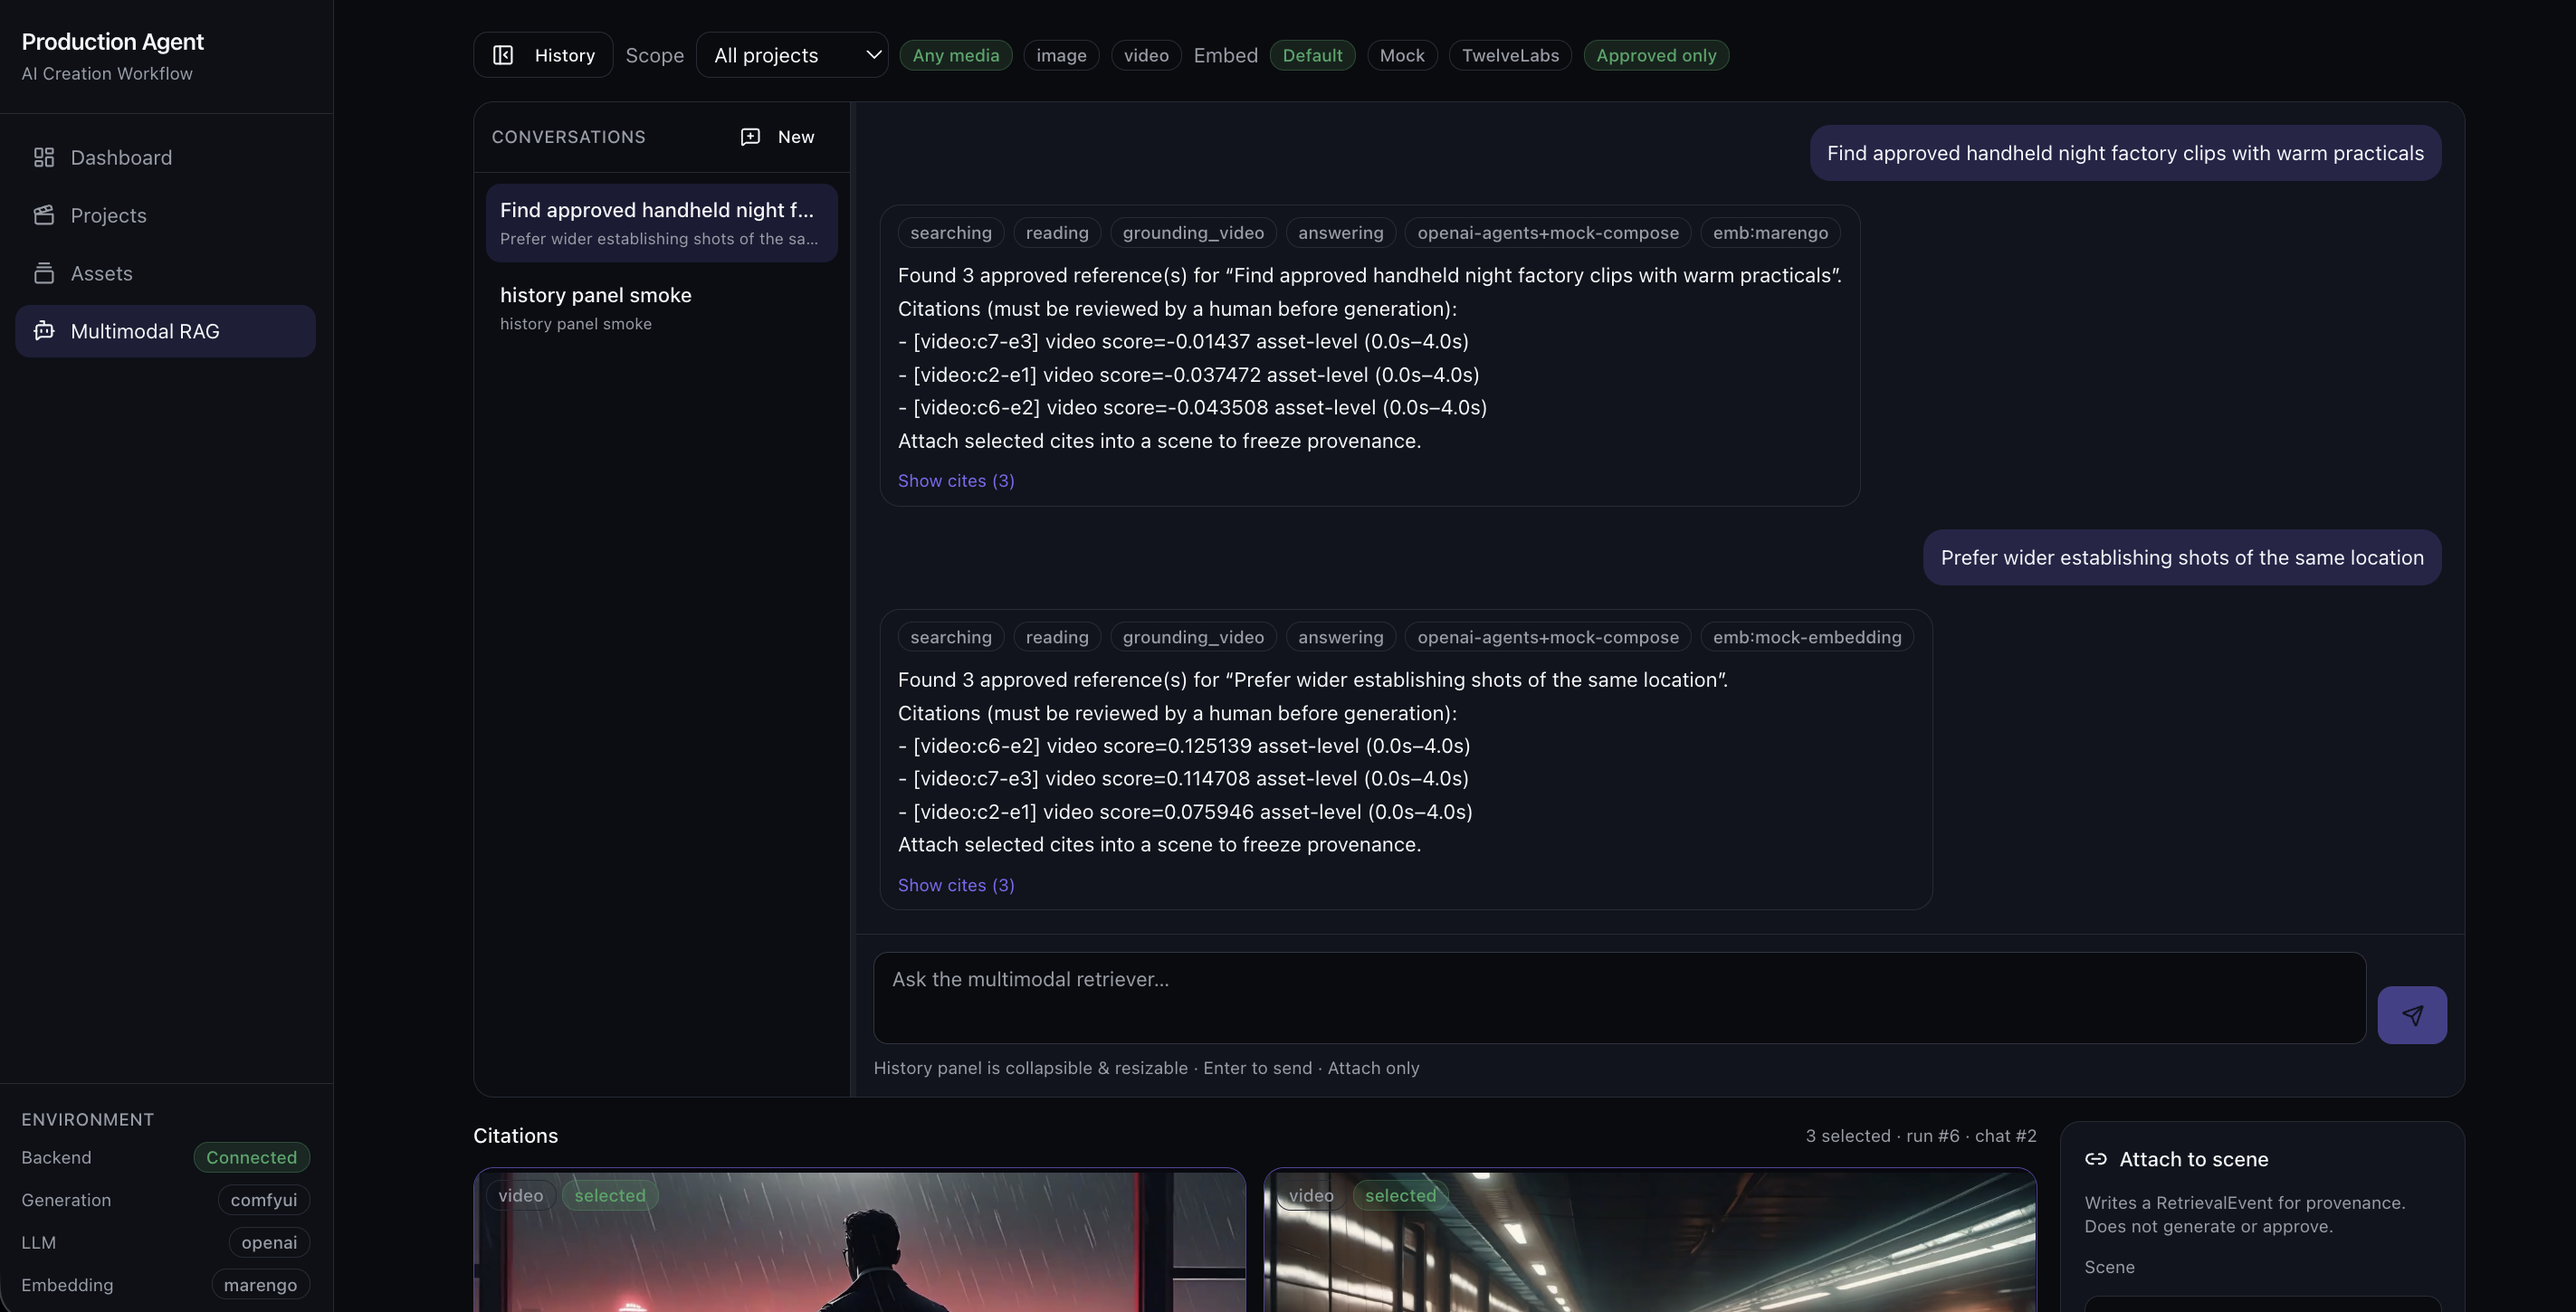
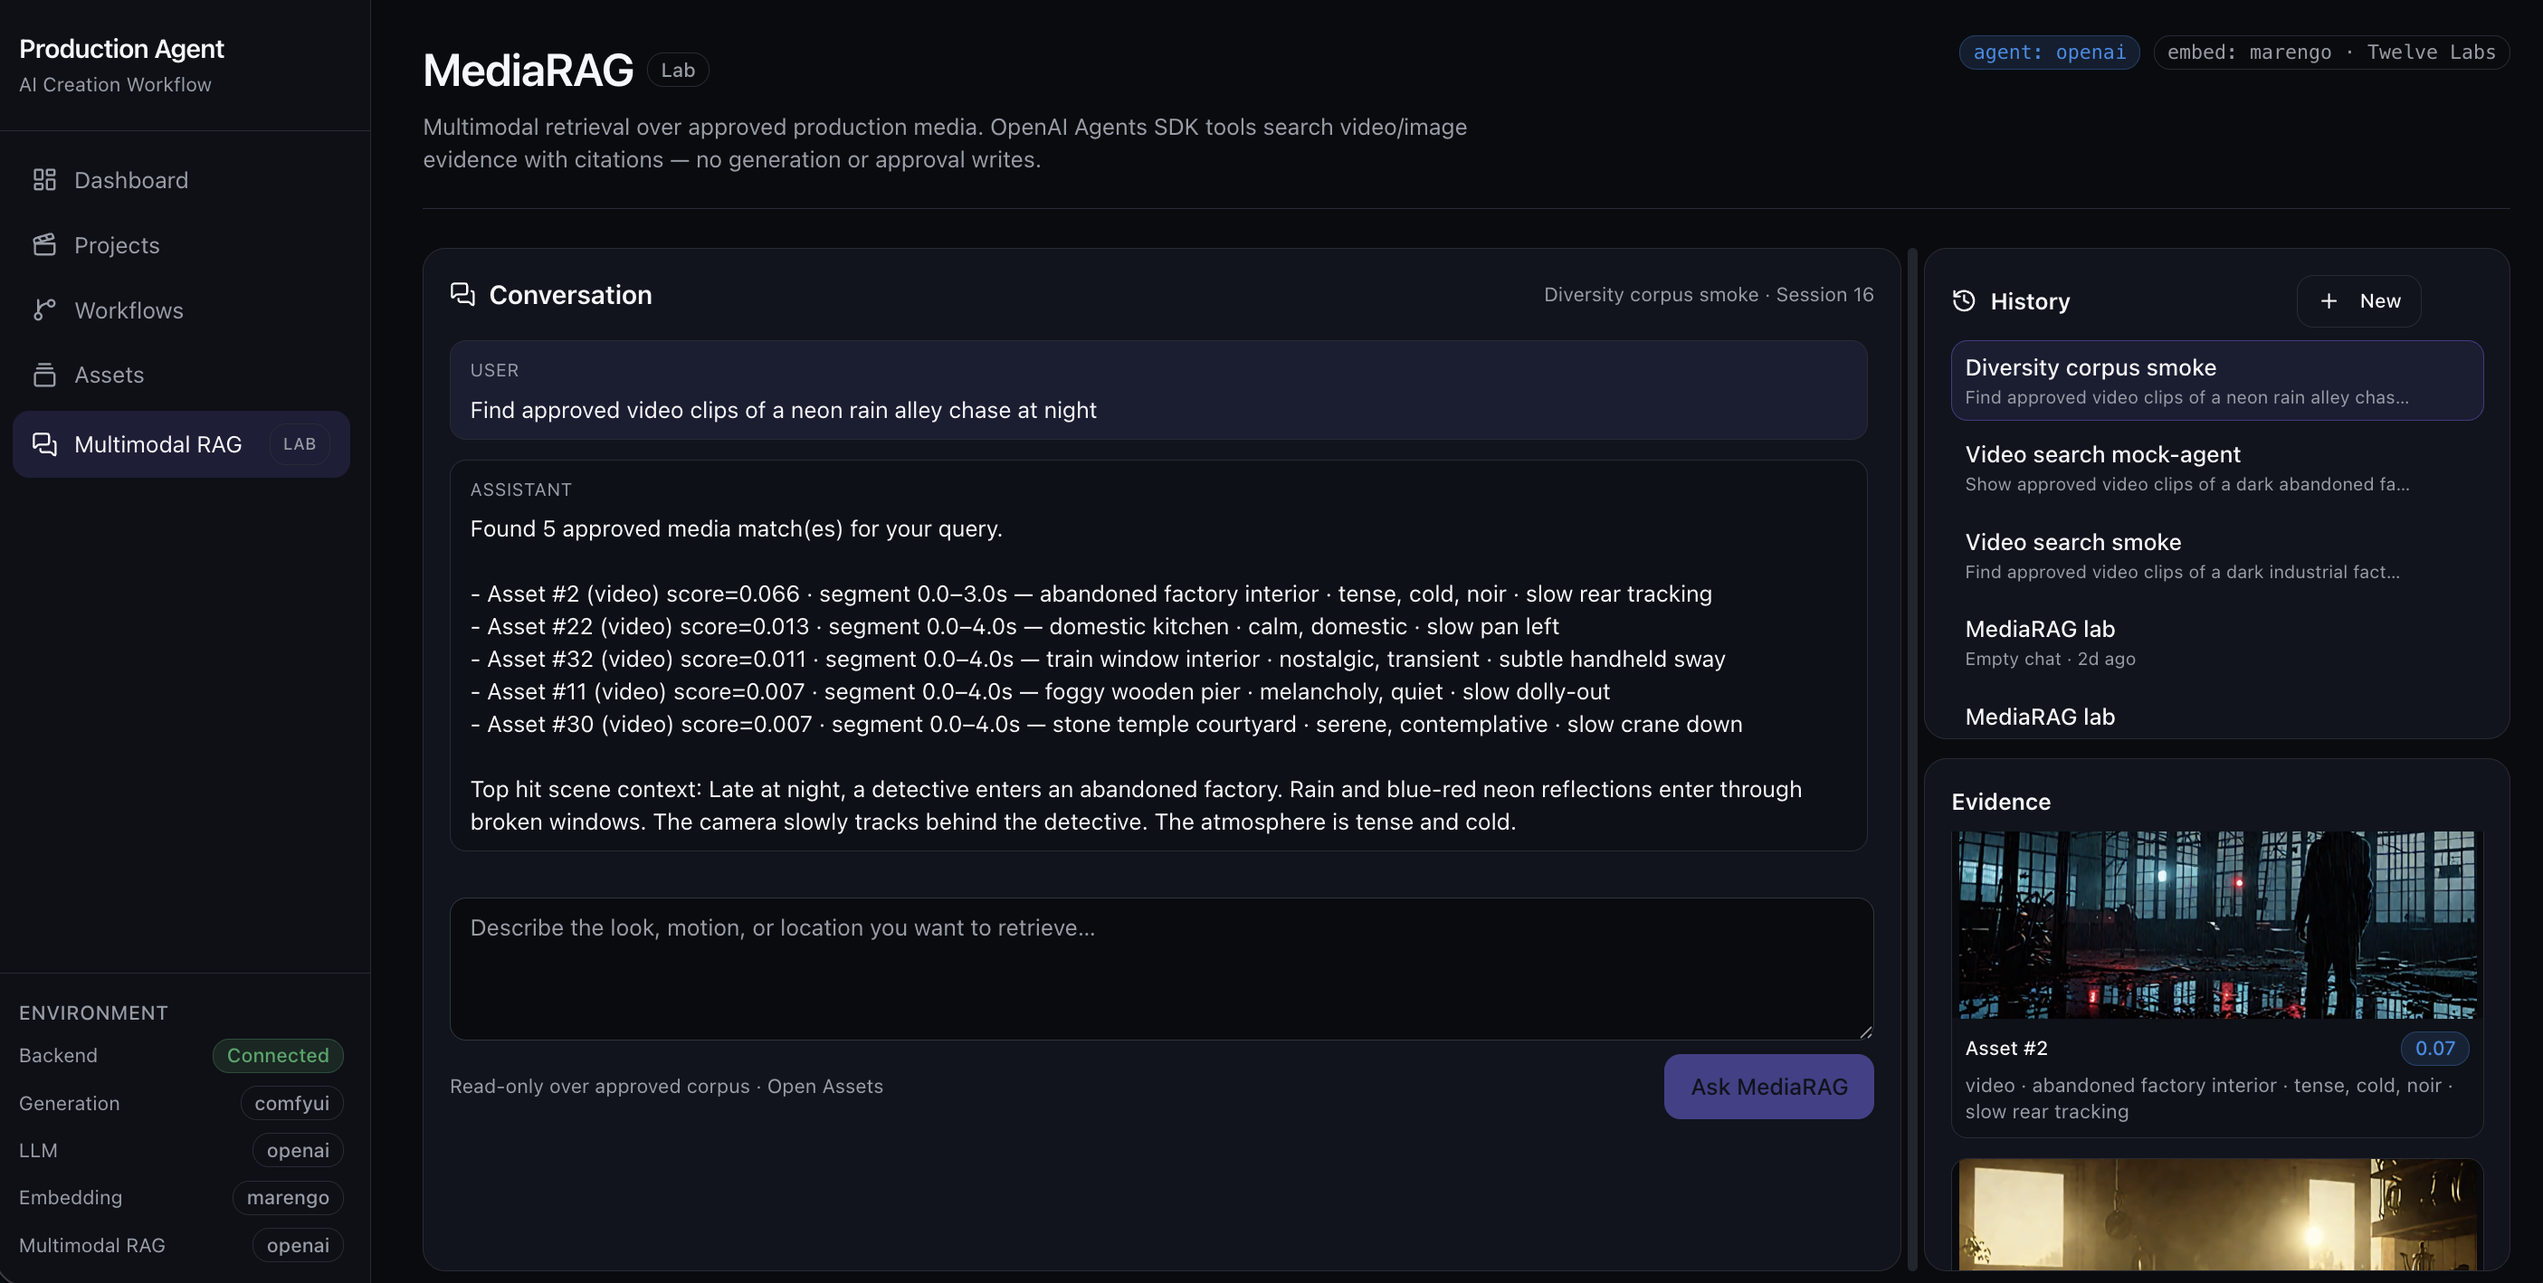
docs: explain ComfyUI keyframe and I2V models in README

diff --git a/README.md b/README.md
@@ -71,14 +71,31 @@ Browse keyframes and videos from completed jobs. Detail views keep technical pat
 
 ### Generation workflows — keyframe still & short video
 
-SceneFlow generates media through two fixed ComfyUI workflows. **Keyframe** makes the still; **I2V** turns an approved keyframe into a short clip.
+SceneFlow generates media through two fixed ComfyUI workflows. **Keyframe** makes the image; **I2V** (image-to-video) turns an approved keyframe into a short clip.
 
 ![ComfyUI generation workflows — keyframe_v1 / i2v_v1](asset/workflow.png)
 
 | Job | Role | Workflow | Models |
 |---|---|---|---|
-| **Keyframe** | Keyframe image from shot spec | `comfy/workflows/keyframe_v1.json` | `sd_xl_base_1.0.safetensors` (SDXL checkpoint) |
-| **I2V** | Short video from approved keyframe | `comfy/workflows/i2v_v1.json` | `wan2.2_ti2v_5B_fp16.safetensors` + `umt5_xxl_fp8_e4m3fn_scaled` + `wan2.2_vae` |
+| **Keyframe** | Keyframe image from shot spec | `comfy/workflows/keyframe_v1.json` | `sd_xl_base_1.0.safetensors` |
+| **I2V** | Short video from approved keyframe | `comfy/workflows/i2v_v1.json` | `wan2.2_ti2v_5B_fp16.safetensors` · `umt5_xxl_fp8_e4m3fn_scaled.safetensors` · `wan2.2_vae.safetensors` |
+
+#### What each model does
+
+| File | Used for | Role |
+|---|---|---|
+| `sd_xl_base_1.0.safetensors` | Keyframe | **SDXL** image model — turns the shot-spec prompt into one photorealistic frame. A *checkpoint* is the full saved weights for that image model. |
+| `wan2.2_ti2v_5B_fp16.safetensors` | I2V | **Wan 2.2** video generator (TI2V = text+image → video). The main network that animates the keyframe into a short clip (~5B parameters; `fp16` = half-precision weights for GPU memory). |
+| `umt5_xxl_fp8_e4m3fn_scaled.safetensors` | I2V | **Text encoder** (UMT5-XXL) — converts the motion / scene prompt into numbers the video model can use. Not an image model; it only understands text. |
+| `wan2.2_vae.safetensors` | I2V | **VAE** (Variational Autoencoder) — compresses images/frames into a smaller internal form for generation, then decodes them back to visible pixels. Think “zip/unzip for pictures” so the big video model can run efficiently. |
+
+**Terms in brief:**
+
+- *I2V* — image-to-video
+- *checkpoint* — packaged model weights
+- *safetensors* — safe weight file format
+- *UNet* / diffusion backbone — the core “paint the next frame” network inside Wan
+- *fp8* / *fp16* — lower-precision number formats that save VRAM
 
 ## Stack
 
